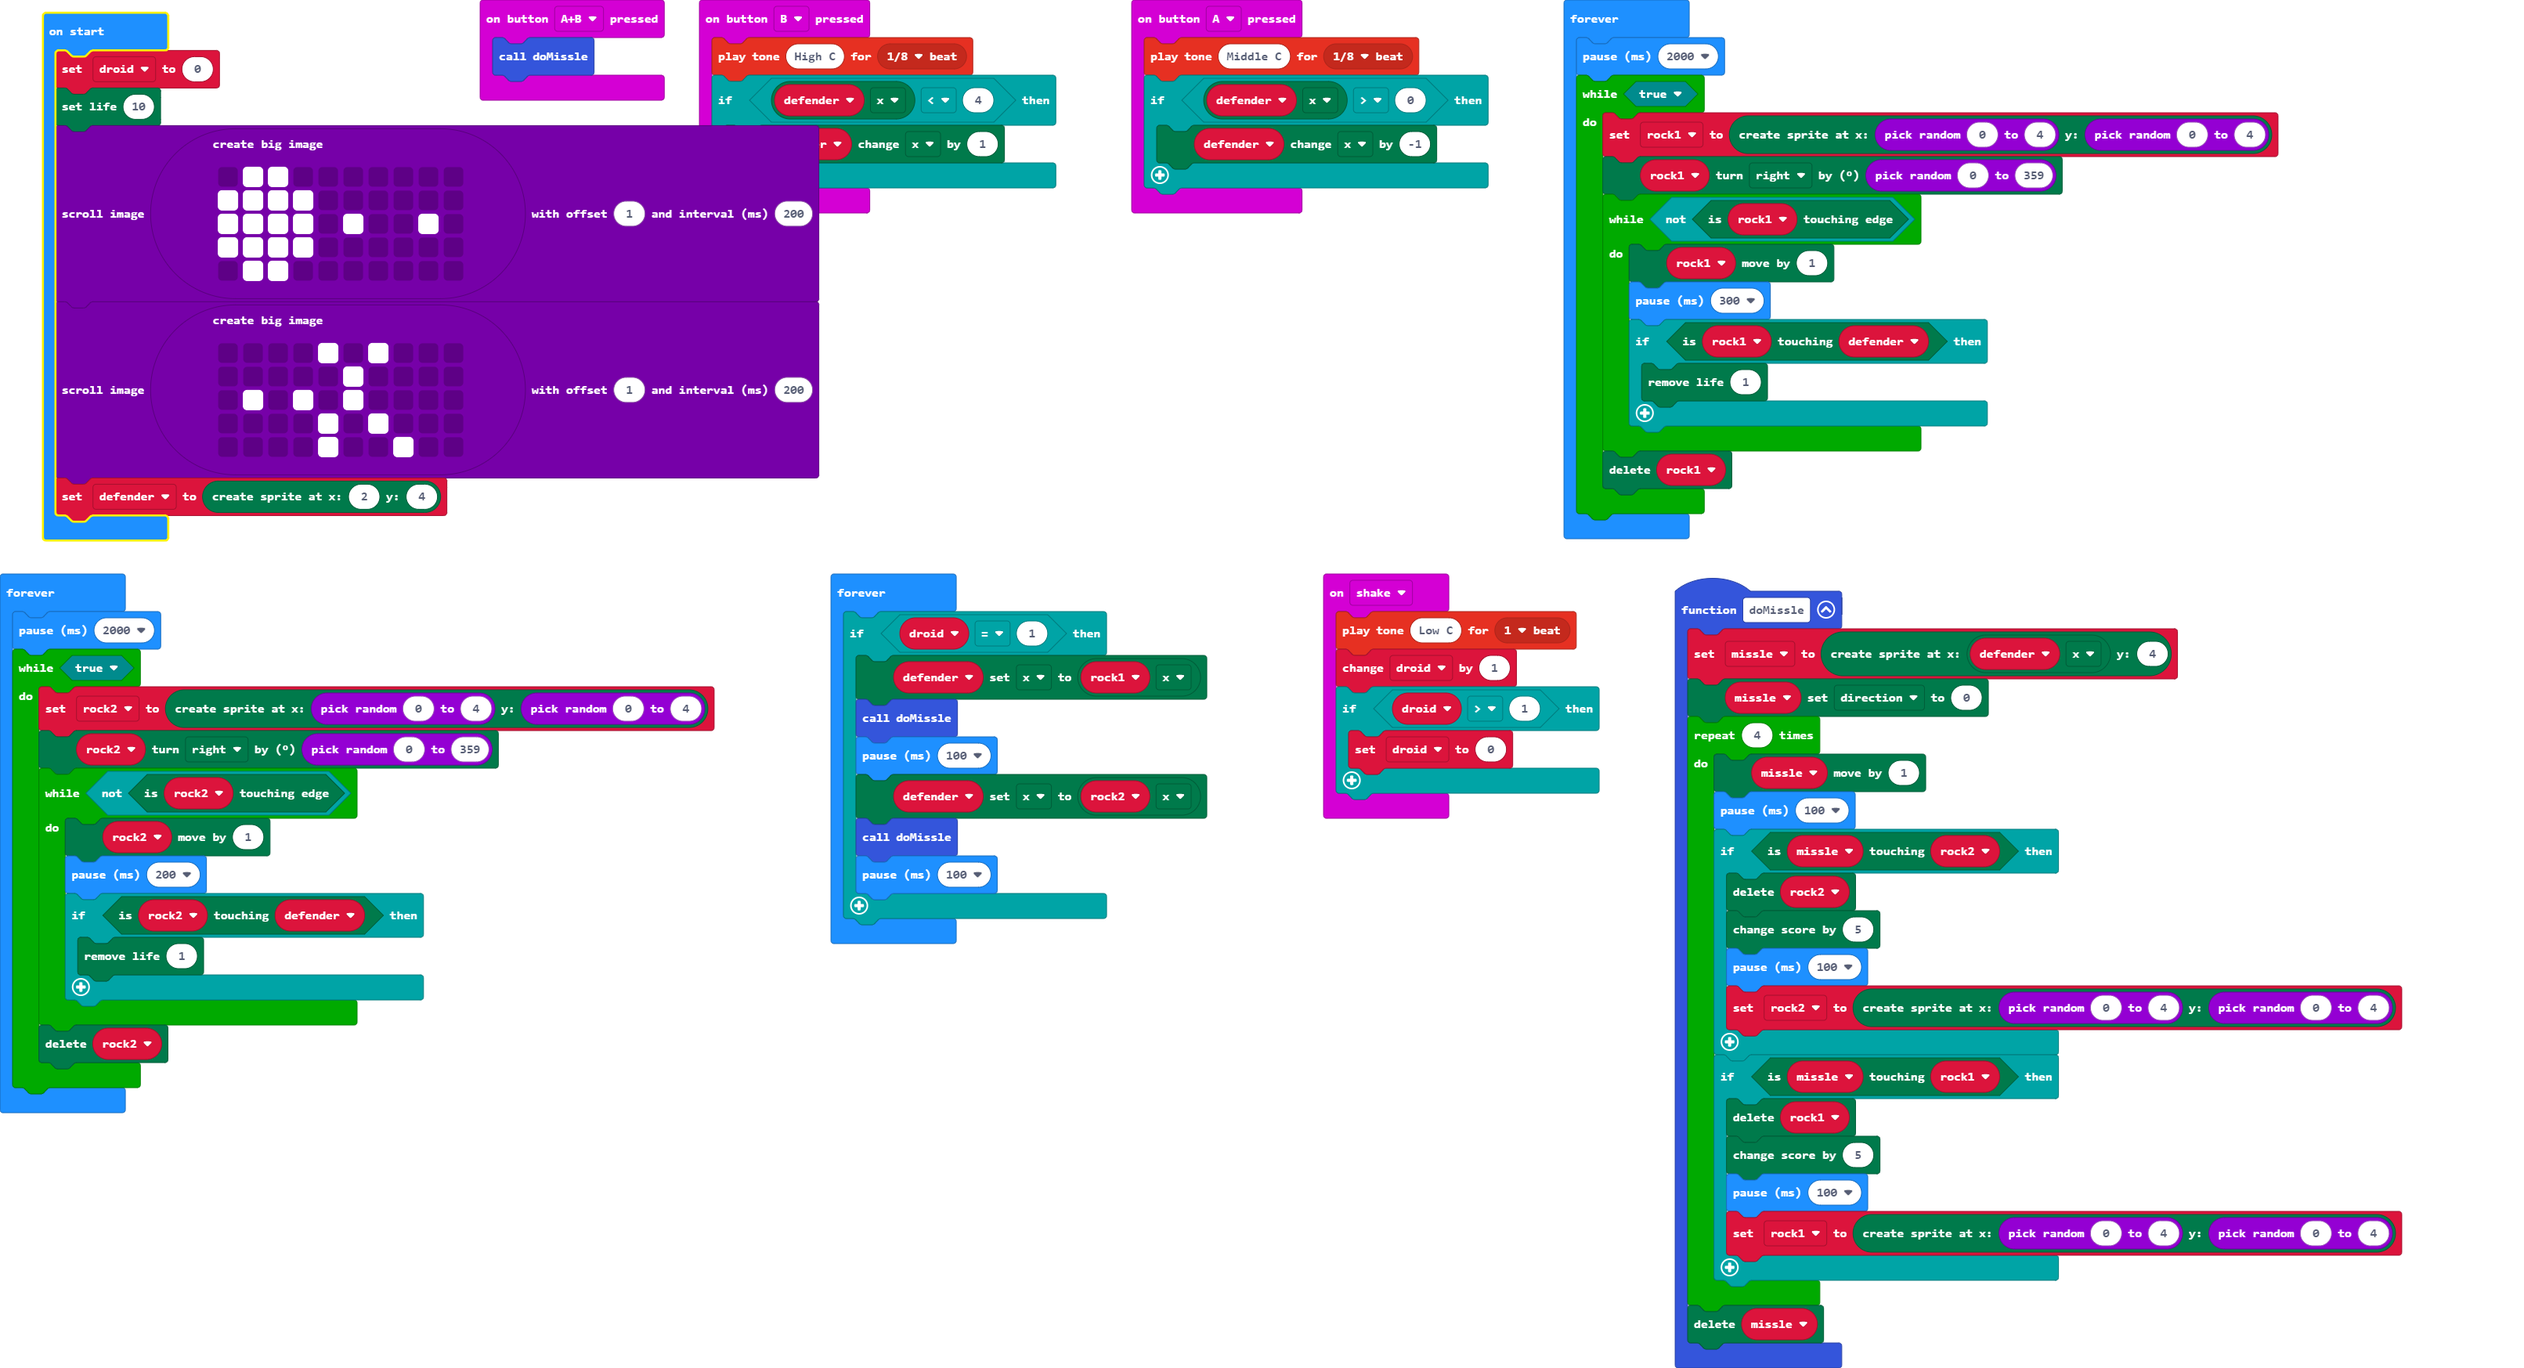
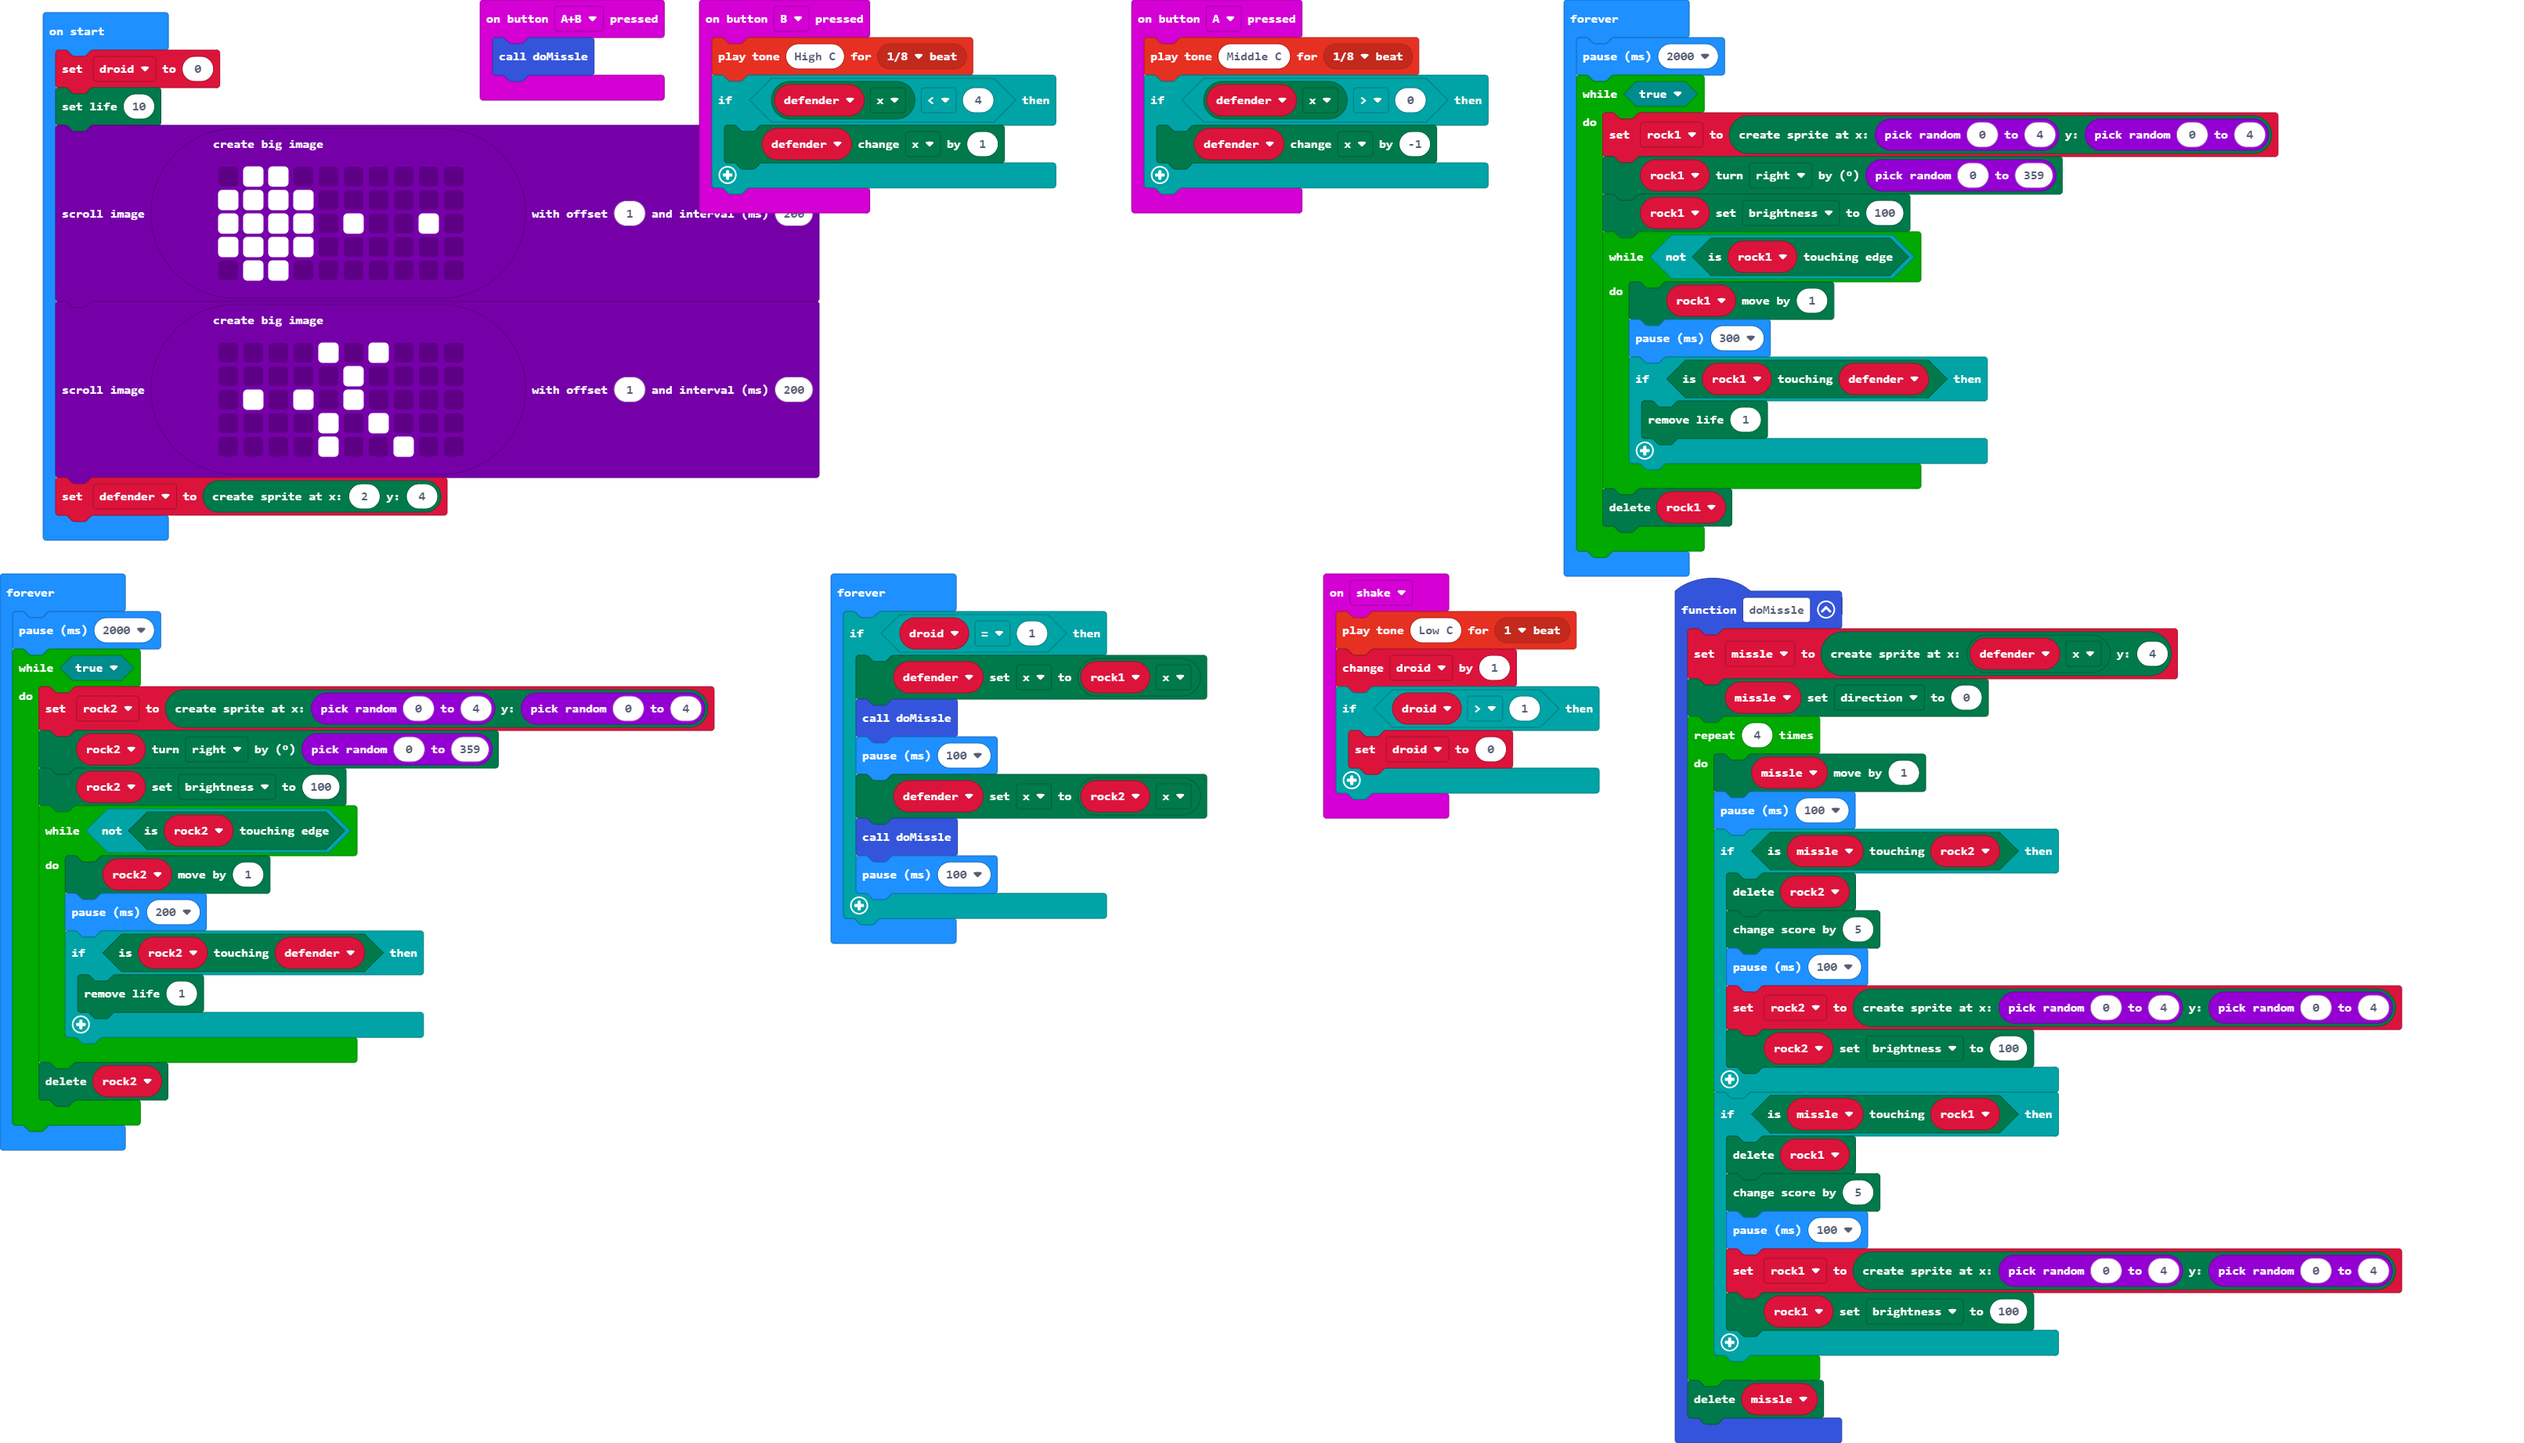
Update main.blocks, main.ts

diff --git a/main.ts b/main.ts
@@ -9,12 +9,14 @@ function doMissle () {
             game.addScore(5)
             basic.pause(100)
             rock2 = game.createSprite(randint(0, 4), randint(0, 4))
+            rock2.set(LedSpriteProperty.Brightness, 100)
         }
         if (missle.isTouching(rock1)) {
             rock1.delete()
             game.addScore(5)
             basic.pause(100)
             rock1 = game.createSprite(randint(0, 4), randint(0, 4))
+            rock1.set(LedSpriteProperty.Brightness, 100)
         }
     }
     missle.delete()
@@ -68,6 +70,7 @@ basic.forever(function () {
     while (true) {
         rock1 = game.createSprite(randint(0, 4), randint(0, 4))
         rock1.turn(Direction.Right, randint(0, 359))
+        rock1.set(LedSpriteProperty.Brightness, 100)
         while (!(rock1.isTouchingEdge())) {
             rock1.move(1)
             basic.pause(300)
@@ -83,6 +86,7 @@ basic.forever(function () {
     while (true) {
         rock2 = game.createSprite(randint(0, 4), randint(0, 4))
         rock2.turn(Direction.Right, randint(0, 359))
+        rock2.set(LedSpriteProperty.Brightness, 100)
         while (!(rock2.isTouchingEdge())) {
             rock2.move(1)
             basic.pause(200)
